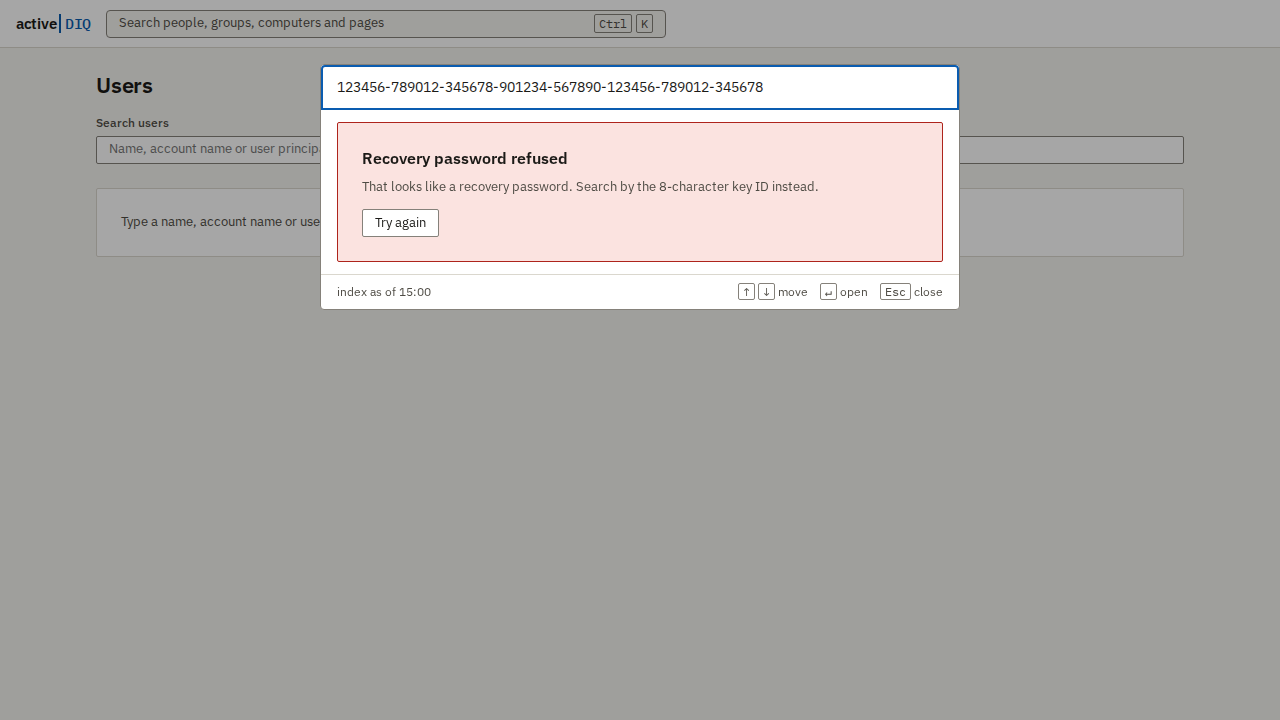
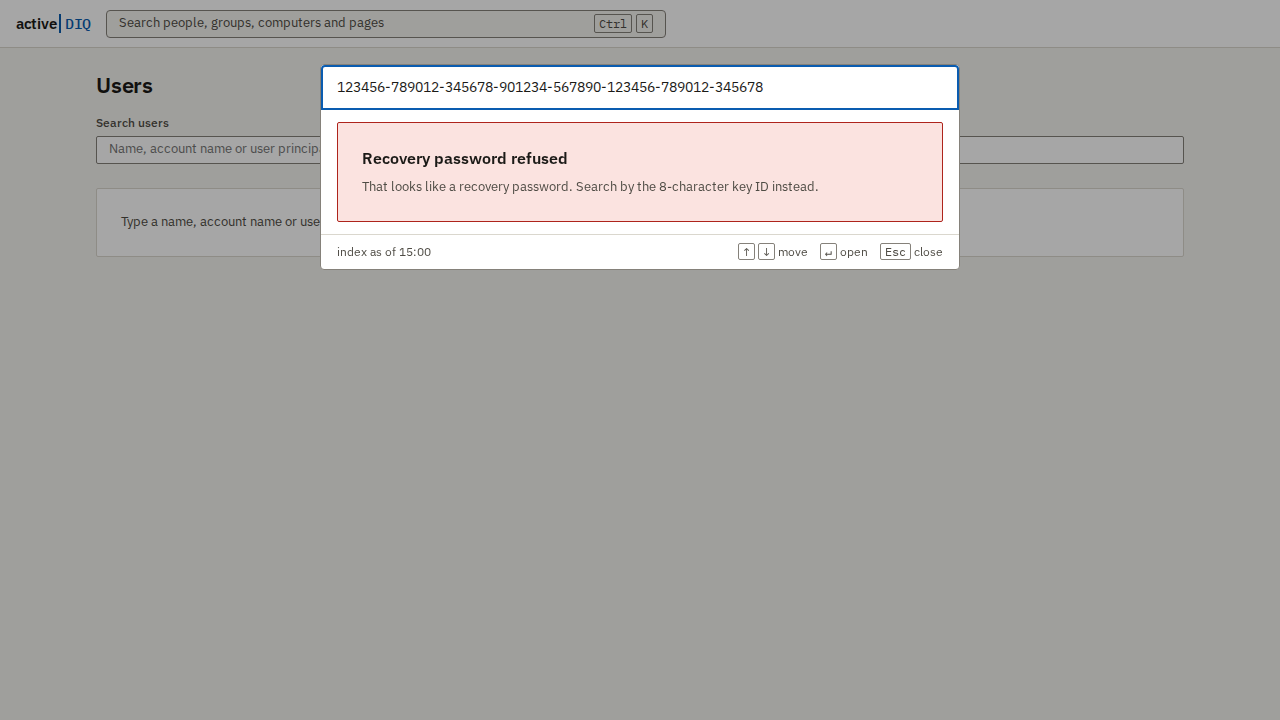
fix(web): palette recovery-password refusal no longer shows a dead Try again button (T-1101)

Changed region(s): [[0.25, 0.275, 0.75, 0.4278]]

diff --git a/web/src/app/shell.test.tsx b/web/src/app/shell.test.tsx
@@ -605,6 +605,11 @@ describe("T-1101 AC 5: Unhappy states (403, 429, 500, empty, recovery password)"
 
     // IA message shown
     expect(document.body.textContent).toContain(RECOVERY_PASSWORD_MESSAGE);
+
+    // Nothing to retry: the fix is to edit the query, so no dead "Try again" control
+    expect(
+      Array.from(document.querySelectorAll("button")).some((b) => b.textContent === "Try again"),
+    ).toBe(false);
   });
 
   describe.each([

diff --git a/web/src/app/shell.tsx b/web/src/app/shell.tsx
@@ -388,7 +388,7 @@ export function Shell({
         placeholder="Search people, groups, computers and pages"
         onSelect={handleSelect}
         onShowAll={handleShowAll}
-        onRetry={handleRetry}
+        {...(isRefusedQuery(query) ? {} : { onRetry: handleRetry })}
         {...(notice ? { notice } : {})}
         {...(footer ? { footer } : {})}
       />
